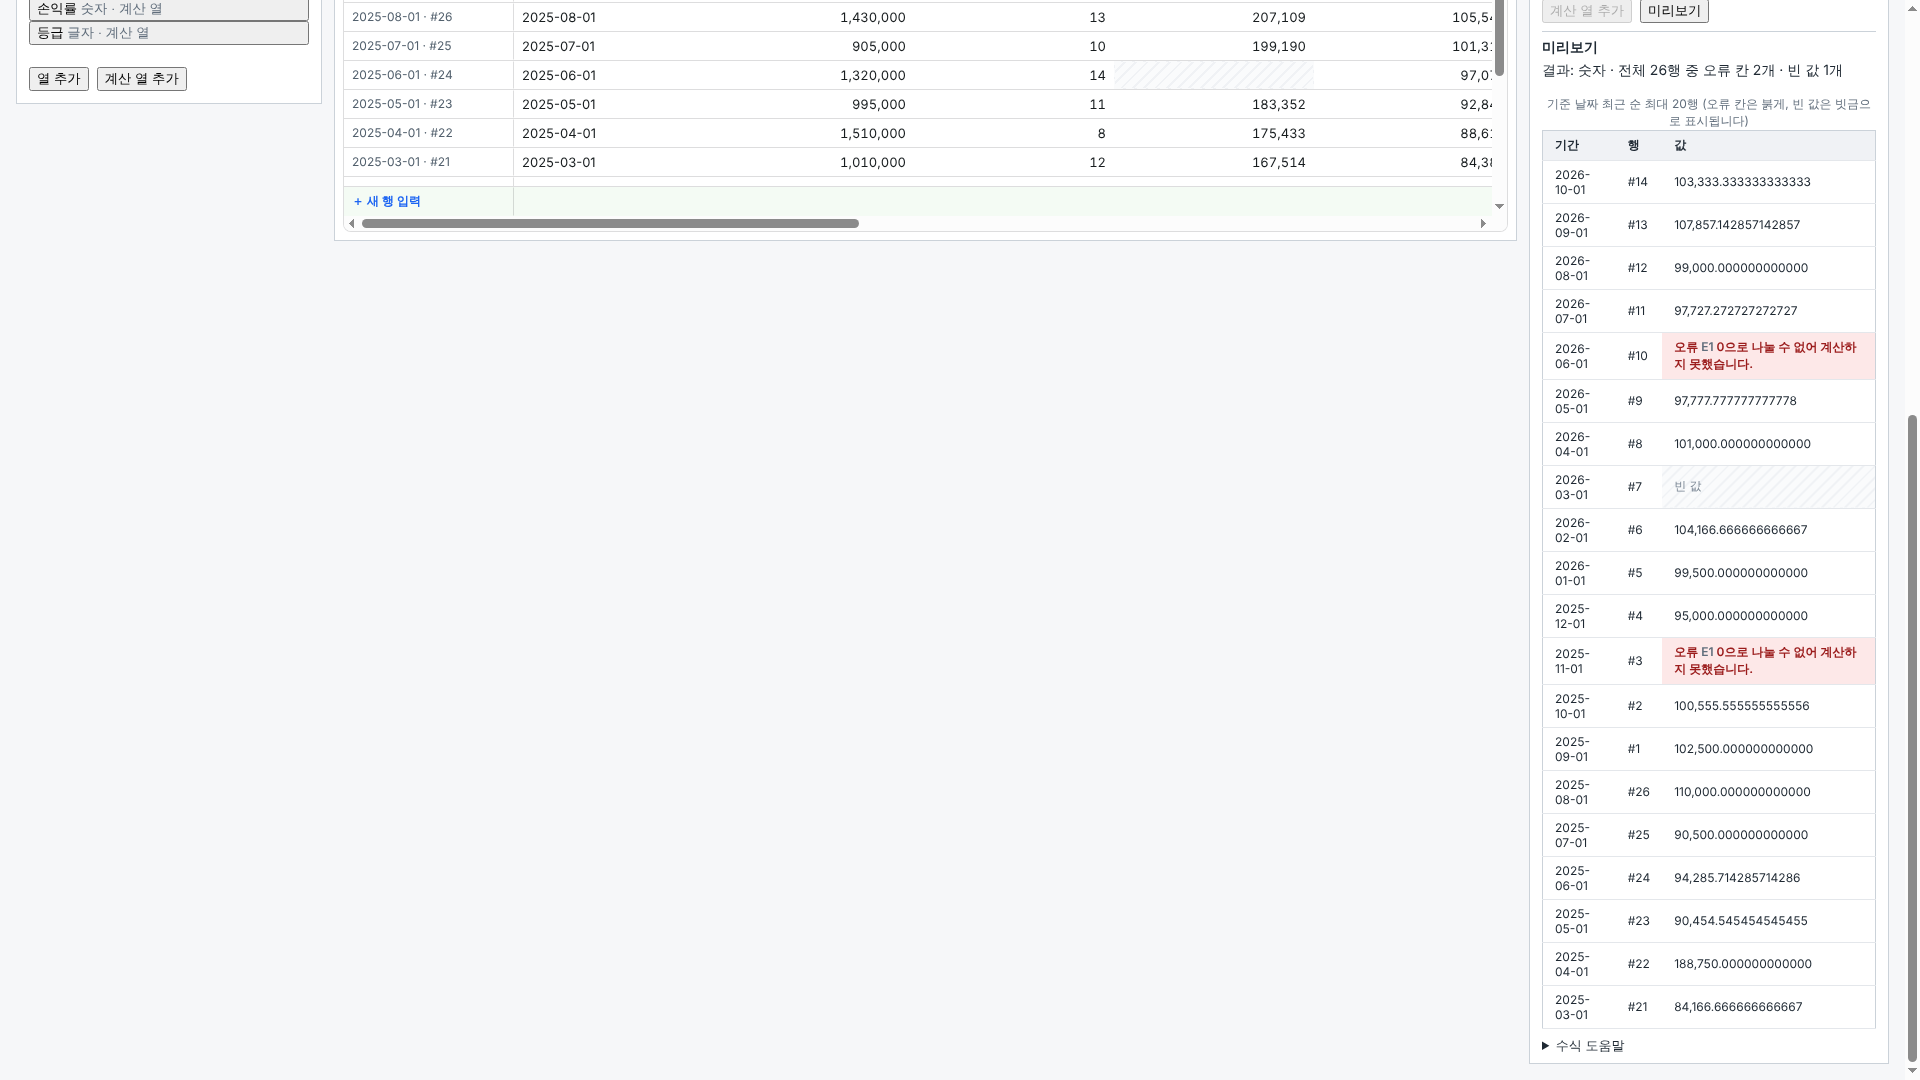
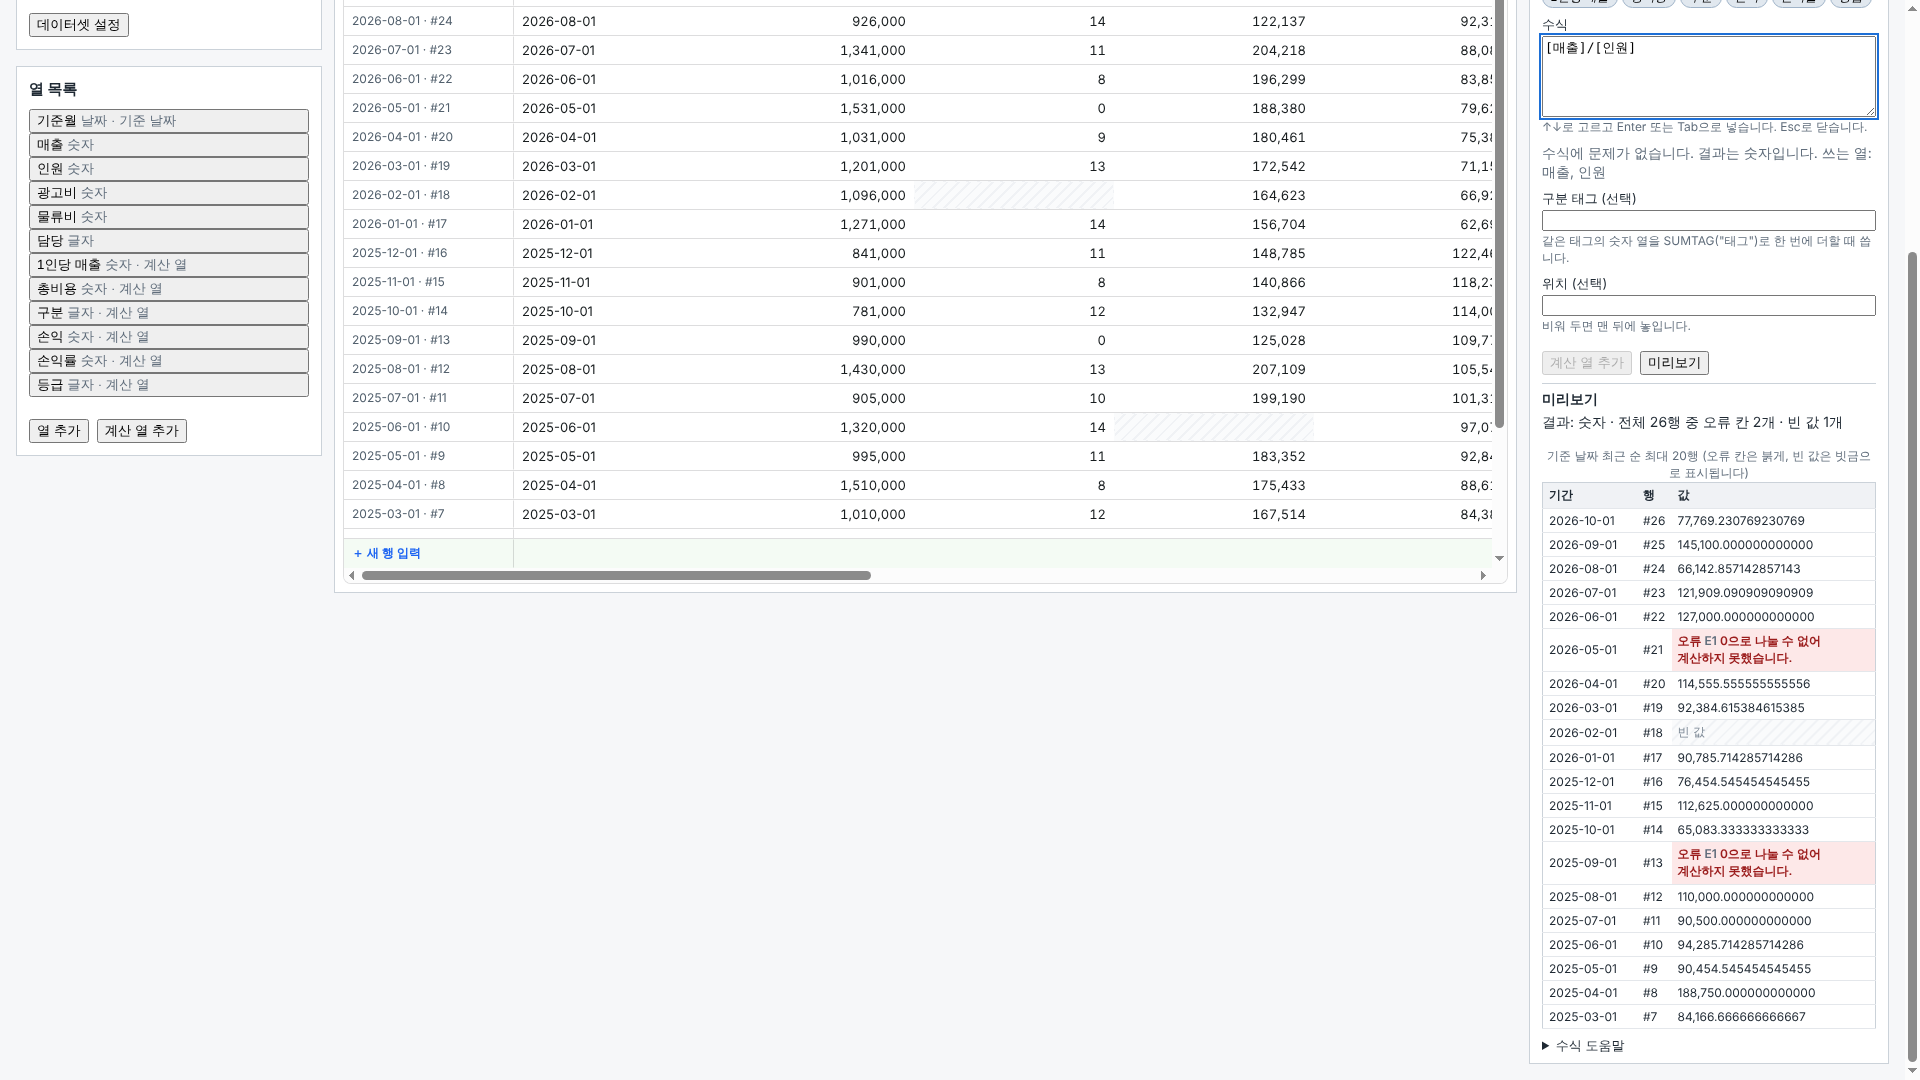
FU-1 1d 수정 화면 스크린샷 17장 교체, 2장 추가
Claude-Session: https://claude.ai/code/session_011eBEnVHtLWqEZa2mjQAAwu

diff --git a/docs/screens/fu1/README.md b/docs/screens/fu1/README.md
@@ -1,7 +1,7 @@
 # FU-1 화면 스크린샷 (1a·1b·1c·1d)
 
 - 촬영일: 2026-10-12(화면 수정분 재촬영: 같은 날, HEAD `809ea5f` 기준으로 이미지를 다시 빌드)
-- 크기: 모두 1920×1080 PNG(viewport, `deviceScaleFactor` 1, 스크롤하지 않은 첫 화면 또는 해당 영역으로 스크롤한 화면). 1a·1b·1c 42장(합계 약 5.6 MiB)과 1d 36장(합계 약 7.0 MiB)을 합쳐 PNG 78장, 약 13 MiB. 1d는 2026-10-12(HEAD `c161979` 기준, 이미지를 작업 트리로 다시 빌드)에 추가로 찍었고 기존 42장은 바꾸지 않았다.
+- 크기: 모두 1920×1080 PNG(viewport, `deviceScaleFactor` 1, 스크롤하지 않은 첫 화면 또는 해당 영역으로 스크롤한 화면). 1a·1b·1c 42장(합계 약 5.6 MiB)과 1d 38장(합계 약 7.6 MiB)을 합쳐 PNG 80장, 약 14 MiB. 1d는 2026-10-12(HEAD `c161979` 기준)에 추가로 찍었고, 같은 날 화면 수정분(HEAD `42c3619` + 작업 트리, 프로젝트 `shots5`)으로 17장을 다시 찍고 2장을 새로 추가했다. 1a·1b·1c 42장과 나머지 1d 장은 바이트 그대로다.
 - 데이터: 전부 합성 데이터다(팀·사용자·데이터셋·값). 실제 사용자·업무 데이터는 없다.
 - 신원: 개발용 인증 스텁(`AUTH_STUB_ENABLED=true`, `APP_ENV=local`)의 신원 전환기로 사용자를 바꿔 찍었다. 모든 화면 위쪽의 점선 "개발용 신원" 선택은 이 때문이다(운영 설정에서는 나타나지 않는다).
 - 스크롤바: 기본 headless Chromium은 스크롤바를 그리지 않으므로 Playwright를 `ignoreDefaultArgs: ['--hide-scrollbars']`로 띄워 가로·세로 스크롤바가 실제 브라우저처럼 보이게 찍었다(코드 변경 아님, 촬영 옵션).
@@ -71,14 +71,15 @@
 
 ### 1d 수식 열(계산 열)
 
-촬영 조건 공통: 1920×1080, `deviceScaleFactor` 1, 합성 데이터셋 "월별 손익"(26개월, 인원 0이 2개월·빈 값 1개월, 광고비 빈 값 2개월)과 "월별 수금", compose 프로젝트 `shots4`, HEAD `c161979`, 시드 `capture/seed1d.py`, 촬영 `capture/capture1d.cjs`. 별도 표기가 없으면 실제 서버 응답이다.
+촬영 조건 공통: 1920×1080, `deviceScaleFactor` 1, 합성 데이터셋 "월별 손익"(26개월, 인원 0이 2개월·빈 값 1개월, 광고비 빈 값 2개월)과 "월별 수금", compose 프로젝트 `shots4`(수정분 재촬영은 `shots5`, HEAD `42c3619` + 작업 트리), 시드 `capture/seed1d.py`, 촬영 `capture/capture1d.cjs`. 별도 표기가 없으면 실제 서버 응답이다.
 
 | 파일 | 화면 | 상태 | 촬영 조건 |
 | --- | --- | --- | --- |
 | `fu1d-editor-empty-new-formula-column.png` | 수식 편집기 | 계산 열 추가 직후 빈 편집기(열 이름 칩, 안내 문구) | `stub-definer`, "월별 손익", "계산 열 추가" |
 | `fu1d-editor-column-chip-inserted.png` | 수식 편집기 | 열 이름 칩 클릭으로 `[매출] / [인원]` 삽입(확인 중) | 칩 "매출", `/` 입력, 칩 "인원" |
 | `fu1d-editor-autocomplete-function-list.png` | 수식 편집기 | 함수 자동완성 열림(`RO` 입력, 후보와 설명·엑셀과 차이) | `RO` 입력 후 ↓ |
-| `fu1d-editor-autocomplete-column-list.png` | 수식 편집기 | `[` 입력 시 열 이름 후보(입력 열·계산 열 구분) | `[` 입력 |
+| `fu1d-editor-autocomplete-column-list.png` | 수식 편집기 | `[` 입력 시 열 이름 후보 12개(입력 열·계산 열 구분). 목록이 8줄까지만 보이고 세로 스크롤바가 생기며 아래에 "후보 12개 — 목록을 스크롤하거나 ↑↓로 끝까지 고르고…" 안내(2026-10-12 재촬영) | `[` 입력 |
+| `fu1d-editor-autocomplete-column-list-scroll-hint.png` | 수식 편집기 | (신규) 위 목록을 ↓로 마지막 후보("등급")까지 내려 목록이 스크롤된 상태와 "후보 12개" 안내 | `[` 입력 후 ↓ 11번 |
 | `fu1d-editor-autocomplete-tag-list.png` | 수식 편집기 | `SUMTAG("` 안의 구분 태그 후보 | `SUMTAG("` 입력 |
 | `fu1d-editor-error-unknown-column.png` | 수식 편집기 | 쉬운 말 오류: 없는 열 이름(밑줄이 `[없는열]`에 정확히 일치) | `[없는열]*2` |
 | `fu1d-editor-error-arg-count.png` | 수식 편집기 | 쉬운 말 오류: 인수 개수 | `ROUND([매출])` |
@@ -93,13 +94,14 @@
 | `fu1d-editor-circular-after-check.png` | 수식 편집기 | 순환 참조: 검사 단계에서 "열이 서로를 참조해 계산할 수 없습니다: 손익 → 손익률 → 손익" | "손익" 열 수식 고치기에서 `[손익률]+1` |
 | `fu1d-editor-result-type-changed-notice.png` | 수식 편집기 | `result_type_changed` 안내(저장 성공 + 차트 확인 안내) | "등급" 열 수식을 글자->숫자 결과로 저장 |
 | `fu1d-formula-view-readonly-no-define-permission-viewer.png` | 수식 보기 | 정의 권한 없음(열람자): 수식 보기만 있고 "수식은 팀의 정의 담당자만 고칠 수 있습니다." | `stub-viewer`, "1인당 매출" |
-| `fu1d-grid-calculated-columns-overview.png` | 입력 그리드 | 입력 열 쪽 화면(계산 열은 오른쪽으로 스크롤해야 보임) | `stub-entry` |
-| `fu1d-grid-calculated-columns-scrolled-right.png` | 입력 그리드 | 계산 열 머리글 `ƒ`·기울임·아래 선, 이탤릭 회색 값, 빈 계산 칸 | 가로 스크롤 끝 |
-| `fu1d-grid-calculated-cell-edit-attempt.png` | 입력 그리드 | 계산 열 오류 칸을 두 번 눌러 `123` 입력 시도: 편집기가 열리지 않음(안내 문구 없음) | 오류 칸 더블클릭 + 입력 |
-| `fu1d-grid-error-cell-e1-and-blank-cells-widened-column.png` | 입력 그리드 | 열 폭을 넓힌 "1인당 매출": `오류 E1` 칸(붉은 배경)과 빈 칸, 선택된 열 머리글 | 머리글 경계를 마우스로 드래그 |
+| `fu1d-grid-calculated-columns-overview.png` | 입력 그리드 | 입력 열 쪽 화면(계산 열은 오른쪽으로 스크롤해야 보임; 수정분 재촬영, 화면은 이전과 같음) | `stub-entry` |
+| `fu1d-grid-calculated-columns-scrolled-right.png` | 입력 그리드 | 계산 열 머리글 `ƒ`·기울임, 칸 왼쪽 세로 선(계산 열 표지), 값 있는 칸은 회색 배경·이탤릭, 빈 계산 칸은 입력 열과 같은 빗금, 오류 칸은 붉은 배경(2026-10-12 재촬영) | 가로 스크롤 끝 |
+| `fu1d-grid-calculated-cell-edit-attempt.png` | 입력 그리드 | 계산 열 오류 칸을 두 번 눌러 `123` 입력 시도: 편집기가 열리지 않고 그리드 위에 노란 안내 "계산 열은 수식으로 계산되어 직접 고칠 수 없습니다. 수식은 Inspector에서 고칠 수 있습니다."(5초간, 2026-10-12 재촬영) | 오류 칸 더블클릭 + 입력 |
+| `fu1d-grid-error-cell-e1-and-blank-cells-widened-column.png` | 입력 그리드 | (2026-10-12 재촬영: 안내 문구가 아직 남아 있고 계산 열 표지·빗금 반영) 열 폭을 넓힌 "1인당 매출": `오류 E1` 칸(붉은 배경)과 빈 칸, 선택된 열 머리글 | 머리글 경계를 마우스로 드래그 |
 | `fu1d-formula-view-division-with-error-cells-entry.png` | 수식 보기 | `[매출] / [인원]`, 결과 종류, 쓰는 열, 오류 칸 2개 + "점검 화면에서 보기" 링크(입력자, 읽기 전용) | `stub-entry`, "1인당 매출" |
 | `fu1d-formula-view-sumtag-with-tag-columns-entry.png` | 수식 보기 | `SUMTAG("비용")`, 태그로 더하는 열(광고비, 물류비) | `stub-entry`, "총비용" |
-| `fu1d-formula-view-definer-with-edit-button.png` | 수식 보기 | 정의 담당자: 수식 보기 + "수식 고치기" 버튼 | `stub-definer`, "손익률" |
+| `fu1d-formula-view-definer-with-edit-button.png` | 수식 보기 | 정의 담당자: 수식 보기 + "수식 고치기" 버튼이 위에, 접힌 "열 정보"가 아래에(2026-10-12 재촬영) | `stub-definer`, "손익률" |
+| `fu1d-formula-view-calculated-column-info-collapsed.png` | 수식 보기(Inspector 전체) | (신규) 계산 열 선택 시 수식 보기·수식 고치기가 위에, 읽기 전용 열 정보는 접힌 "열 정보" 구역(▶)으로 내려감 | `stub-definer`, "손익률" |
 | `fu1d-formula-edit-opened-definer.png` | 수식 고치기 | 수식 고치기 편집기가 보기 텍스트로 열림, 검사 통과, 미리보기(빈 값 2개) | "수식 고치기" 클릭 |
 | `fu1d-formula-view-no-error-cells-entry.png` | 수식 보기 | 오류 칸 "없음"(원인 값을 고친 뒤) | `stub-entry`, "1인당 매출" |
 | `fu1d-s5-checks-error-columns-list.png` | S5 점검 | 오류 칸이 있는 열 목록(데이터셋·팀·계산 열·건수, 오류 칸 보기·작업공간 열기) | `stub-viewer`, `/checks` |
@@ -111,6 +113,8 @@
 | `fu1d-s9-views-section-retry-while-locked.png` | S9 현황 | 잠금이 남은 동안 다시 시도: "다른 작업이 진행 중입니다…(약 2초 뒤)" 안내(`DEFINITION_BUSY`), 실패 2건 그대로 | "이 데이터셋 다시 시도" |
 | `fu1d-s9-views-section-after-single-retry.png` | S9 현황 | 잠금이 풀린 뒤 1건 다시 시도: "1개를 다시 만들었습니다. 아직 1개가 실패 상태입니다" | 같은 버튼 |
 | `fu1d-s9-views-section-recovered.png` | S9 현황 | "실패한 항목 전부 다시 시도" 뒤 복구: 실패 0개 | 전부 다시 시도 |
+
+2026-10-12 재촬영 대상(17장): 위 표에서 `fu1d-editor-autocomplete-column-list`, `fu1d-editor-check-ok-top`, `fu1d-editor-circular-after-check`, `fu1d-editor-error-arg-count`("ROUND에는 값이 2개 필요한데 1개가 들어 있습니다."), `fu1d-editor-preview-*`(2장, 기간 줄바꿈 없음), `fu1d-editor-result-type-changed-notice`, `fu1d-formula-*`(6장), `fu1d-grid-*`(4장). 나머지 1d 장(편집기 빈 화면·칩·함수/태그 자동완성·나머지 오류 4장·PREVIEW_BUSY, S5, S9)은 바꾸지 않았다.
 
 1d에서 찍지 못한 것: `FORMULA_CIRCULAR` 저장 단계의 경로 안내(검사 단계에서 같은 문구가 먼저 나와 저장 버튼이 막힘), 뷰가 없는 동안의 입력 그리드(계산 열이 빈 값). `PREVIEW_BUSY` 두 장은 서버가 아니라 브라우저에서 응답을 바꾼 모의 화면이다.
 
